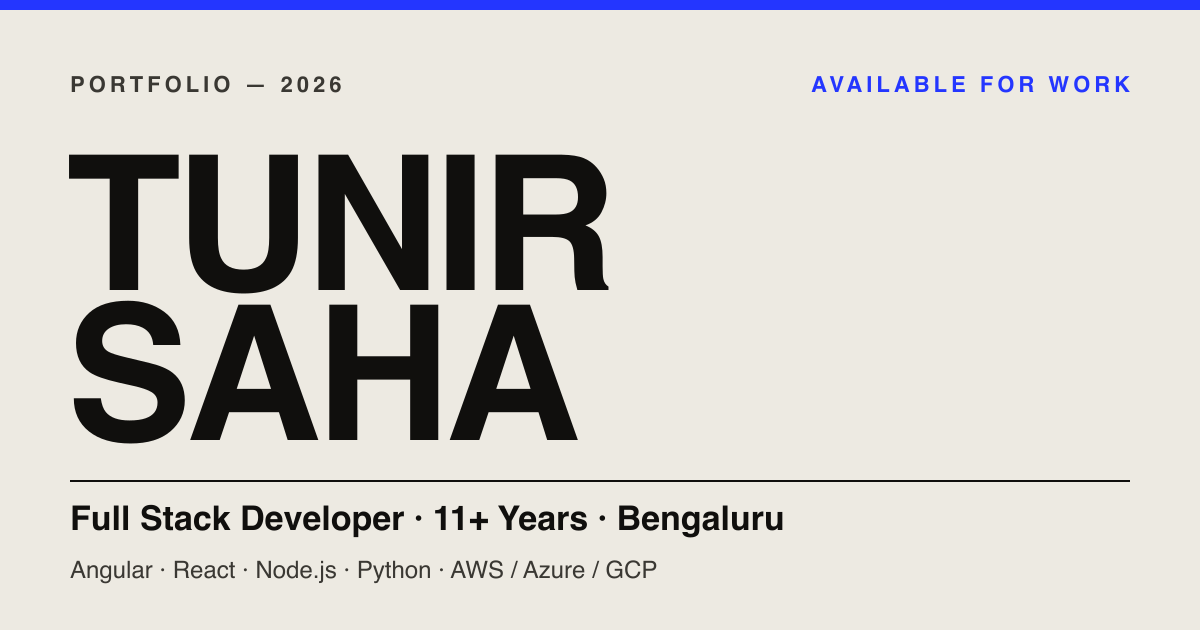
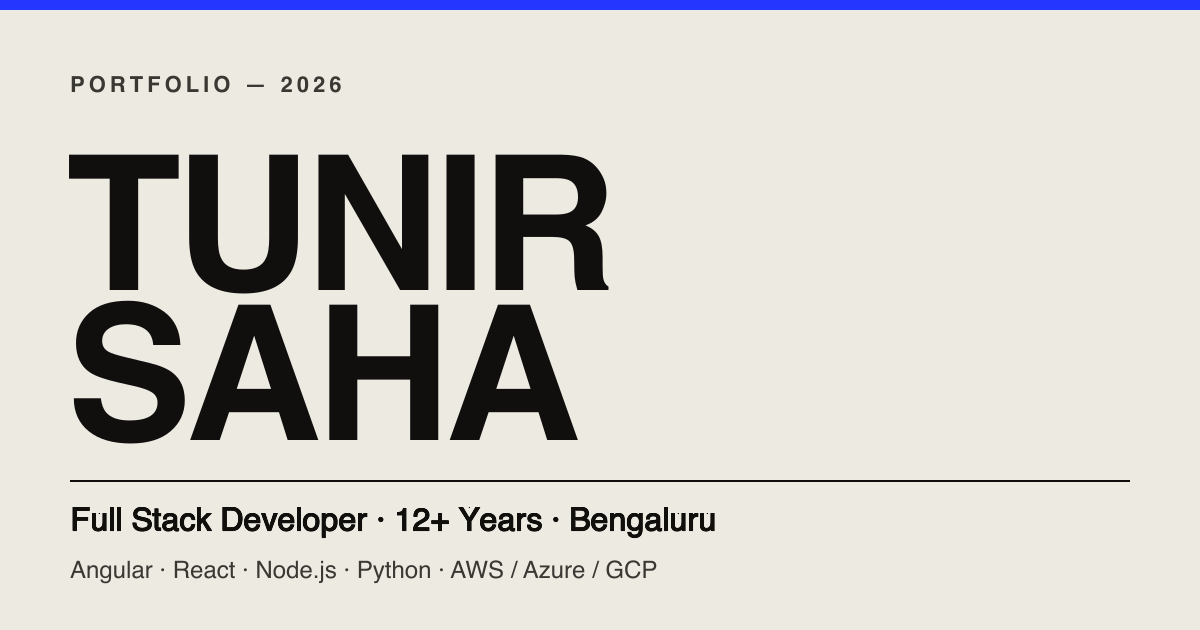
Update to 12 years, fix no-JS rendering, tidy empty project panel
- 12+ years in hard-coded copy, og.png and llms.txt (live counter unchanged)
- No-JS: hide loader overlay, clock and GitHub graph; bake in LeetCode and chess values
- Remove placeholder text and href=# from project panel template
- og.png: drop 'Available for work', update years

Changed region(s): [[0.0617, 0.7841, 0.6783, 0.8746], [0.6783, 0.1206, 0.9558, 0.1508]]

diff --git a/index.html b/index.html
@@ -8,7 +8,7 @@
   <title>Tunir Saha - Full Stack Developer | Angular, React, Node.js, Python</title>
   <!-- 152 chars. the previous copy ran 214 and truncated mid-clause in the SERP;
        everything past ~155 is written for a reader who never sees it. -->
-  <meta name="description" content="Full stack developer in Bengaluru, 11+ years across FICO, IBM, Accenture and Cognizant. Angular and React up front, Node.js and Python behind." />
+  <meta name="description" content="Full stack developer in Bengaluru, 12+ years across FICO, IBM, Accenture and Cognizant. Angular and React up front, Node.js and Python behind." />
   <link rel="canonical" href="https://tunirsaha.com/" />
   <meta name="robots" content="index, follow, max-snippet:-1, max-image-preview:large, max-video-preview:-1" />
   <meta name="author" content="Tunir Saha" />
@@ -26,12 +26,12 @@
   <meta property="og:type" content="profile" />
   <meta property="og:site_name" content="Tunir Saha" />
   <meta property="og:title" content="Tunir Saha - Full Stack Developer | Angular, React, Node.js, Python" />
-  <meta property="og:description" content="11+ years building web, mobile and cloud applications at FICO, IBM, Accenture and Cognizant. Frontend, backend and the cloud both run on - one person, whole stack." />
+  <meta property="og:description" content="12+ years building web, mobile and cloud applications at FICO, IBM, Accenture and Cognizant. Frontend, backend and the cloud both run on - one person, whole stack." />
   <meta property="og:url" content="https://tunirsaha.com/" />
   <meta property="og:image" content="https://tunirsaha.com/assets/og.png" />
   <meta property="og:image:width" content="1200" />
   <meta property="og:image:height" content="630" />
-  <meta property="og:image:alt" content="Tunir Saha - Full Stack Developer, 11+ years, Bengaluru" />
+  <meta property="og:image:alt" content="Tunir Saha - Full Stack Developer, 12+ years, Bengaluru" />
   <meta property="og:locale" content="en_IN" />
   <meta property="profile:first_name" content="Tunir" />
   <meta property="profile:last_name" content="Saha" />
@@ -39,9 +39,9 @@
   <!-- twitter / x -->
   <meta name="twitter:card" content="summary_large_image" />
   <meta name="twitter:title" content="Tunir Saha - Full Stack Developer | Angular, React, Node.js, Python" />
-  <meta name="twitter:description" content="11+ years building web, mobile and cloud applications at FICO, IBM, Accenture and Cognizant. Frontend, backend and the cloud both run on." />
+  <meta name="twitter:description" content="12+ years building web, mobile and cloud applications at FICO, IBM, Accenture and Cognizant. Frontend, backend and the cloud both run on." />
   <meta name="twitter:image" content="https://tunirsaha.com/assets/og.png" />
-  <meta name="twitter:image:alt" content="Tunir Saha - Full Stack Developer, 11+ years, Bengaluru" />
+  <meta name="twitter:image:alt" content="Tunir Saha - Full Stack Developer, 12+ years, Bengaluru" />
 
   <!-- Google tag (gtag.js) — loaded after the page is interactive, not with it.
        measured on the live build: gtag.js alone held the main thread for 349ms of
@@ -115,7 +115,7 @@
         "@id": "https://tunirsaha.com/#ogimage"
       },
       "jobTitle": "Lead Engineer",
-      "description": "Full stack developer with 11+ years building web, mobile and cloud applications. Angular and React on the frontend, Node.js and Python on the backend, AWS, Azure and GCP underneath. Currently Lead Engineer at FICO in Bengaluru.",
+      "description": "Full stack developer with 12+ years building web, mobile and cloud applications. Angular and React on the frontend, Node.js and Python on the backend, AWS, Azure and GCP underneath. Currently Lead Engineer at FICO in Bengaluru.",
       "disambiguatingDescription": "Full stack developer and engineering lead based in Bengaluru, India, working across Angular, React, Node.js, Python and cloud infrastructure.",
       "email": "mailto:sahatunir@gmail.com",
       "telephone": "+91-84314-23820",
@@ -184,7 +184,7 @@
         "name": "Full Stack Developer",
         "occupationalCategory": "15-1252.00",
         "skills": "Angular, React, TypeScript, JavaScript, RxJS, NgRx, Module Federation, micro-frontends, Node.js, Express, Python, FastAPI, PHP, REST APIs, Socket.IO, PostgreSQL, MySQL, MongoDB, AWS, Azure, GCP, Docker, CI/CD, Jest, Playwright, E2E testing, Ionic, Capacitor, WCAG 2.1 Accessibility, Agile, Scrum, Team Leadership",
-        "experienceRequirements": "11+ years",
+        "experienceRequirements": "12+ years",
         "occupationLocation": {
           "@type": "City",
           "name": "Bengaluru"
@@ -349,7 +349,7 @@
       "width": 1200,
       "height": 630,
       "encodingFormat": "image/png",
-      "caption": "Tunir Saha - Full Stack Developer, 11+ years, Bengaluru"
+      "caption": "Tunir Saha - Full Stack Developer, 12+ years, Bengaluru"
     },
     {
       "@type": "ItemList",
@@ -447,7 +447,7 @@
           "name": "Who is Tunir Saha?",
           "acceptedAnswer": {
             "@type": "Answer",
-            "text": "Tunir Saha is a full stack developer based in Bengaluru, India, with more than 11 years of experience building web, mobile and cloud applications. He is currently Lead Engineer at FICO, where he architects enterprise micro-frontend platforms with Angular 20, Module Federation and Node.js on AWS. Before FICO he worked at IBM, Accenture, Blue Space Labs, Bridgera and Cognizant, shipping software across finance, logistics, telecom, healthcare, banking, travel and energy. He has been writing production code since 2014."
+            "text": "Tunir Saha is a full stack developer based in Bengaluru, India, with more than 12 years of experience building web, mobile and cloud applications. He is currently Lead Engineer at FICO, where he architects enterprise micro-frontend platforms with Angular 20, Module Federation and Node.js on AWS. Before FICO he worked at IBM, Accenture, Blue Space Labs, Bridgera and Cognizant, shipping software across finance, logistics, telecom, healthcare, banking, travel and energy. He has been writing production code since 2014."
           }
         },
         {
@@ -537,16 +537,16 @@
           <span class="hero__line hero__line--2" data-name><span>SAHA</span></span>
         </h1>
         <p class="hero__tag">Full Stack Developer</p>
-        <p class="hero__intro" data-reveal>I build the interface, the API behind it, and the cloud setup that runs both. Eleven years deep across web, mobile and cloud - architecting, shipping and leading at enterprise scale.</p>
+        <p class="hero__intro" data-reveal>I build the interface, the API behind it, and the cloud setup that runs both. Twelve years deep across web, mobile and cloud - architecting, shipping and leading at enterprise scale.</p>
         <div class="hero__sys mono" data-reveal>
-          <span>BLR <b id="sysTime">--:--:--</b> IST</span>
-          <span>EXPERIENCE <b id="upYears">11Y</b></span>
+          <span class="js-only">BLR <b id="sysTime"></b> IST</span>
+          <span>EXPERIENCE <b id="upYears">12Y</b></span>
           <span>BASED IN <b>BENGALURU, INDIA</b></span>
         </div>
       </div>
 
       <ul class="hero__facts mono" data-reveal>
-        <li><b data-count="11" data-suffix="+">11+</b> YEARS</li>
+        <li><b data-count="12" data-suffix="+">12+</b> YEARS</li>
         <li><b data-count="6" data-pad="2">06</b> COMPANIES</li>
         <li><b>EST.</b> 2014</li>
         <li><b>BLR</b> INDIA</li>
@@ -661,7 +661,7 @@
     <section class="block" id="missions">
       <div class="block__head">
         <h2 class="block__title" data-reveal>WORK<br><span class="block__title-2">HISTORY</span></h2>
-        <span class="block__meta mono">02 / 11 YRS · 6 COMPANIES<br>TAP TO EXPAND</span>
+        <span class="block__meta mono">02 / 12 YRS · 6 COMPANIES<br>TAP TO EXPAND</span>
       </div>
       <ul class="cv" data-stagger>
         <li class="acc" data-acc>
@@ -767,7 +767,7 @@
         <div class="sig sig--gh">
           <div class="sig__hd">
             <span class="sig__src">GITHUB / @tunirsaha</span>
-            <span class="sig__live"><i class="dot"></i> <span id="ghTotal" aria-live="polite">- contributions</span></span>
+            <span class="sig__live"><i class="dot"></i> <span id="ghTotal" aria-live="polite"></span></span>
           </div>
           <!-- tabindex makes the 53-column scroller reachable without a mouse; the
                shared [tabindex]:focus-visible ring in styles.css already covers it.
@@ -786,12 +786,12 @@
             <span class="sig__src">LEETCODE / @sahatunir</span>
             <span class="sig__live"><i class="dot"></i> LIVE</span>
           </div>
-          <span class="sig__title" id="lcRank" aria-live="polite">-</span>
+          <span class="sig__title" id="lcRank" aria-live="polite">PROFILE</span>
           <div class="stat-row" id="lcStats" aria-live="polite" aria-busy="true">
-            <div class="stat"><b class="skel" id="lcTotal">000</b><span>SOLVED</span></div>
-            <div class="stat stat--e"><b class="skel" id="lcEasy">00</b><span>EASY</span></div>
-            <div class="stat stat--m"><b class="skel" id="lcMed">00</b><span>MEDIUM</span></div>
-            <div class="stat stat--h"><b class="skel" id="lcHard">00</b><span>HARD</span></div>
+            <div class="stat"><b id="lcTotal">26</b><span>SOLVED</span></div>
+            <div class="stat stat--e"><b id="lcEasy">24</b><span>EASY</span></div>
+            <div class="stat stat--m"><b id="lcMed">2</b><span>MEDIUM</span></div>
+            <div class="stat stat--h"><b id="lcHard">0</b><span>HARD</span></div>
           </div>
           <a class="sig__link" href="https://leetcode.com/u/sahatunir/" target="_blank" rel="noopener">VIEW PROFILE ↗</a>
         </div>
@@ -800,12 +800,12 @@
         <div class="sig">
           <div class="sig__hd">
             <span class="sig__src">CHESS.COM / @tunirsaha</span>
-            <span class="sig__live"><i class="dot"></i> <span id="chessState" aria-live="polite">…</span></span>
+            <span class="sig__live"><i class="dot"></i> <span id="chessState" aria-live="polite"></span></span>
           </div>
           <span class="sig__title">CHESS RATINGS</span>
           <div class="stat-row" aria-live="polite">
-            <div class="stat"><b id="chRapid">-</b><span>RAPID</span></div>
-            <div class="stat"><b id="chBlitz">-</b><span>BLITZ</span></div>
+            <div class="stat"><b id="chRapid">863</b><span>RAPID</span></div>
+            <div class="stat"><b id="chBlitz">661</b><span>BLITZ</span></div>
             <div class="stat"><b id="chBullet">-</b><span>BULLET</span></div>
           </div>
           <a class="sig__link" href="https://www.chess.com/member/tunirsaha" target="_blank" rel="noopener">VIEW PROFILE ↗ <span class="sig__err" id="chessNote"></span></a>
@@ -870,10 +870,10 @@
 
       <div class="exp__panel" id="expPanel" role="region" aria-label="Selected project details" aria-hidden="true">
         <button class="exp__close mono" id="expClose">CLOSE ✕</button>
-        <h3 id="expPanelName">-</h3>
-        <p id="expPanelDesc">-</p>
+        <h3 id="expPanelName"></h3>
+        <p id="expPanelDesc"></p>
         <div class="exp__panel-stack mono" id="expPanelStack"></div>
-        <a class="exp__panel-link mono" id="expPanelLink" href="#" target="_blank" rel="noopener">OPEN PROJECT ↗</a>
+        <a class="exp__panel-link mono" id="expPanelLink" target="_blank" rel="noopener">OPEN PROJECT ↗</a>
       </div>
     </section>
 
@@ -945,7 +945,7 @@
 
       <div class="rsm" data-reveal>
         <div class="rsm__copy">
-          <p class="rsm__lede">Eleven years on two pages - every role, the stack behind it and the numbers it moved. Same story as this site, in the format recruiters and ATS parsers expect.</p>
+          <p class="rsm__lede">Twelve years on two pages - every role, the stack behind it and the numbers it moved. Same story as this site, in the format recruiters and ATS parsers expect.</p>
           <ul class="rsm__meta mono">
             <li><span>FORMAT</span><b>PDF</b></li>
             <li><span>PAGES</span><b>02</b></li>
@@ -974,7 +974,7 @@
       <div class="faq" data-stagger>
         <article class="faq__item">
           <h3 class="faq__q">Who is Tunir Saha?</h3>
-          <p class="faq__a">Tunir Saha is a full stack developer based in Bengaluru, India, with more than 11 years of experience building web, mobile and cloud applications. He is currently Lead Engineer at FICO, where he architects enterprise micro-frontend platforms with Angular 20, Module Federation and Node.js on AWS. Before FICO he worked at IBM, Accenture, Blue Space Labs, Bridgera and Cognizant, shipping software across finance, logistics, telecom, healthcare, banking, travel and energy. He has been writing production code since 2014.</p>
+          <p class="faq__a">Tunir Saha is a full stack developer based in Bengaluru, India, with more than 12 years of experience building web, mobile and cloud applications. He is currently Lead Engineer at FICO, where he architects enterprise micro-frontend platforms with Angular 20, Module Federation and Node.js on AWS. Before FICO he worked at IBM, Accenture, Blue Space Labs, Bridgera and Cognizant, shipping software across finance, logistics, telecom, healthcare, banking, travel and energy. He has been writing production code since 2014.</p>
         </article>
 
         <article class="faq__item">

diff --git a/css/styles.css b/css/styles.css
@@ -709,3 +709,6 @@ body.menu-open .mmenu{ transform:translateY(0); }
   .js .topbar{ transform:none !important; }
   .wipe-cover{ display:none !important; }
 }
+
+/* no-JS: hide widgets that only JS can fill (clock, GitHub graph) instead of showing placeholders */
+html:not(.js) .loader, html:not(.js) .js-only, html:not(.js) #ghGrid, html:not(.js) .gh__legend, html:not(.js) .sig__live:has(#ghTotal){ display:none; }

diff --git a/PRODUCT.md b/PRODUCT.md
@@ -8,7 +8,7 @@ brand
 
 Two human readers, weighted equally:
 
-- **Employers** — recruiters, engineering managers and tech leads screening for a senior/lead frontend or full-stack hire. They arrive skeptical, skim fast, and want proof of depth (11 years, real companies: FICO, IBM, Accenture, Cognizant) before they invest attention.
+- **Employers** — recruiters, engineering managers and tech leads screening for a senior/lead frontend or full-stack hire. They arrive skeptical, skim fast, and want proof of depth (12 years, real companies: FICO, IBM, Accenture, Cognizant) before they invest attention.
 - **Clients & founders** — people who need something built end-to-end and are deciding whether one person can own frontend, backend and the hardware in between. They care about range and about "ships things that survive real users."
 
 Both land on `/` (single-page site), scan the hero for signal, and either bounce or reach the contact CTA. Success = they email `sahatunir@gmail.com` or open a profile link (GitHub / LinkedIn / LeetCode).
@@ -21,7 +21,7 @@ This reader constrains design, not just markup: anything reachable only through 
 
 ## Product Purpose
 
-A single-page personal portfolio for Tunir Saha — UI engineer / systems builder. It exists to convert a cold visitor into a conversation by proving, not asserting, full-stack range (screen → server → device) and eleven years of shipped work. The site itself is the proof: hand-coded, zero dependencies, no build step, no template. The medium is the message — a portfolio that demonstrates the craft it claims.
+A single-page personal portfolio for Tunir Saha — UI engineer / systems builder. It exists to convert a cold visitor into a conversation by proving, not asserting, full-stack range (screen → server → device) and twelve years of shipped work. The site itself is the proof: hand-coded, zero dependencies, no build step, no template. The medium is the message — a portfolio that demonstrates the craft it claims.
 
 ## Brand Personality
 
